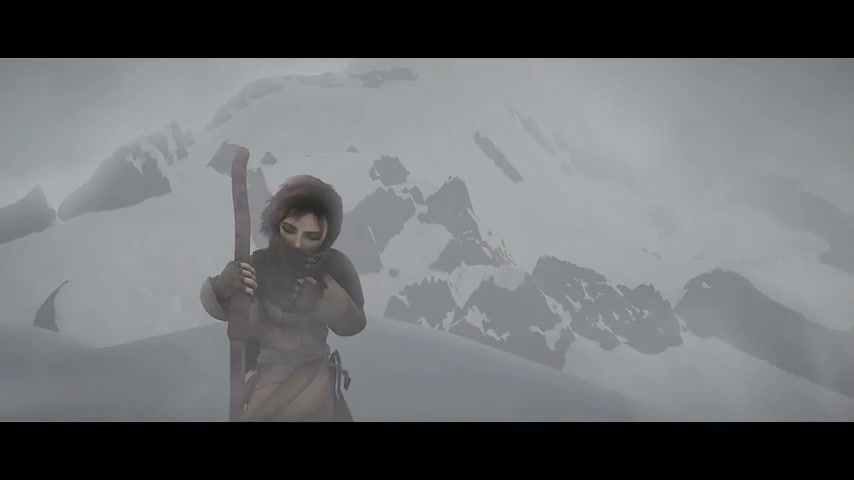
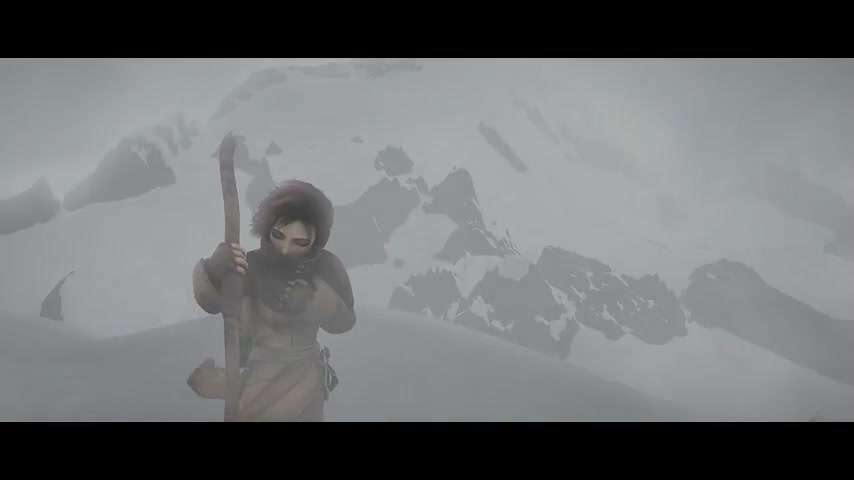
feat(route9): head-aligned clip windows (cut on scene boundaries)
Director-layer policy: clip windows snap to the source shot HEAD
(discover_shots boundaries = scene boundaries) instead of mid-centered
windows - 'cut on the scene boundary' is the professional editing
principle. Duration budget unaffected (window position only).
- compute_clip_window gains align=center|head (center preserved as
  default for GEN-1 compat); reasoner passes align=head
- verification on sintel_trailer compound cut: in-points now sit at our
  shot-model boundaries (4.23->4.0, 29.0->28.0); strict ±0.5s naturalness
  ratio unchanged 57% (ceiling bounded by discover_shots vs PySceneDetect
  detector disagreement - 28.0 misses 27.42 by 0.08s), ±1.0s = 71%
- pixel judge delta: technical 4.14->4.43, shots 3.86->4.43, visual
  4.14->4.29 (head-aligned windows start scenes at their natural
  beginning instead of mid-action)
- future levers recorded: calibrate discover_shots threshold vs
  PySceneDetect, or adopt PySceneDetect as shot discovery backend
- suite 546 passed 1 skipped

diff --git a/director_brain/providers/heuristic.py b/director_brain/providers/heuristic.py
@@ -49,12 +49,27 @@ def compute_clip_window(
     shot_in_us: int,
     shot_out_us: int,
     clip_dur_us: int,
+    align: str = "center",
 ) -> tuple[int, int]:
-    """取镜头中点居中裁剪，边界钳制到 ``[shot_in_us, shot_out_us]``。
+    """按对齐策略取片段窗口，边界钳制到 ``[shot_in_us, shot_out_us]``。
+
+    align:
+    - ``"center"``（历史缺省）：镜头中点居中裁剪；
+    - ``"head"``（route-9 切点吸附）：窗口起点 = 源镜头起点——镜头起点即
+      场景边界（discover_shots 分段依据），**切在场景边界上**是专业剪辑
+      原则，切点自然度（scripts/cut_naturalness.py）由此提升。
 
     Guarantees: ``shot_in_us <= proposed_in_us < proposed_out_us <= shot_out_us``
     （调用方保证 ``clip_dur_us <= shot_out_us - shot_in_us``）。
     """
+    if align == "head":
+        proposed_in = shot_in_us
+        proposed_out = shot_in_us + clip_dur_us
+        if proposed_out > shot_out_us:
+            proposed_out = shot_out_us
+            proposed_in = proposed_out - clip_dur_us
+        return proposed_in, proposed_out
+
     shot_mid = (shot_in_us + shot_out_us) // 2
     half = clip_dur_us // 2
     proposed_in = shot_mid - half
@@ -119,6 +134,7 @@ class HeuristicBaseline:
         *,
         min_clip_us: int = MIN_CLIP_US,
         max_clip_us: int = MAX_CLIP_US,
+        align: str = "center",
     ) -> dict:
         """生成 V0.1 格式的 proposal dict。
 
@@ -160,7 +176,7 @@ class HeuristicBaseline:
 
             clip_dur = min(shot_dur, max_clip_us, remaining)
             proposed_in, proposed_out = compute_clip_window(
-                shot_in, shot_out, clip_dur
+                shot_in, shot_out, clip_dur, align=align
             )
 
             mult, hits = _vlm_multiplier(c, target_duration_us)
@@ -214,6 +230,7 @@ def generate_edl(
     *,
     min_clip_us: int = MIN_CLIP_US,
     max_clip_us: int = MAX_CLIP_US,
+    align: str = "center",
 ) -> EditorialDecisionList:
     """生成 EDL：产出 V0.1 proposal slots 后直接构造 EDL。
 
@@ -229,6 +246,7 @@ def generate_edl(
         target_duration_us=target_duration_us,
         min_clip_us=min_clip_us,
         max_clip_us=max_clip_us,
+        align=align,
     )
 
     edits = [

diff --git a/director_brain/director_reasoner.py b/director_brain/director_reasoner.py
@@ -327,12 +327,15 @@ class HeuristicDirectorReasoner(DirectorReasoner):
                 MIN_CLIP_US,
             )
 
+            # route-9 导演层 policy：切点吸附场景边界（head 对齐）——
+            # 片段起点 = 源镜头起点（discover_shots 分段依据 = 场景边界）
             edl = generate_edl(
                 project_id=brief.project_id,
                 candidates=act_cands,
                 target_duration_us=per_act_target,
                 min_clip_us=min_clip_us,
                 max_clip_us=max_clip_us,
+                align="head",
             )
             act_edits: list[EditItem] = list(edl.ordered_edits)
             used_fallback = False
@@ -351,6 +354,7 @@ class HeuristicDirectorReasoner(DirectorReasoner):
                         target_duration_us=per_act_target,
                         min_clip_us=min_clip_us,
                         max_clip_us=max_clip_us,
+                        align="head",
                     )
                     relaxed_edits = list(edl_relaxed.ordered_edits)
                     if relaxed_edits:
